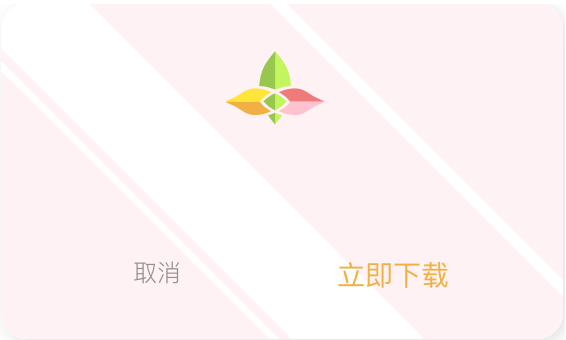
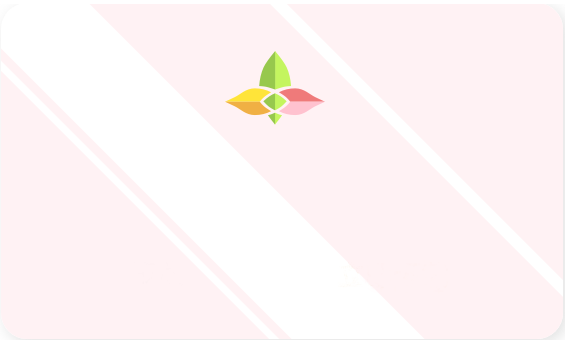
lzq

Changed region(s): [[0.6007, 0.7647, 0.811, 0.8529], [0.2403, 0.7647, 0.3304, 0.8529]]

diff --git a/src/pages/home/home.ts b/src/pages/home/home.ts
@@ -23,6 +23,8 @@ export class HomePage implements OnInit {
 
   @ViewChild('slider') slider: Slides;
   @ViewChild("segments") segments;
+  updateShow:Boolean = false;
+  updateVersion = 0;
   page = {
     pageNum: 0,
     pageString: '0',
@@ -133,26 +135,28 @@ export class HomePage implements OnInit {
     let self = this;
     let appVersion = ServiceConfig.appVersion;
     self.http.get("check_update/", function (data) {
+      self.updateVersion = data.version;
       if (data.version != appVersion) {
-        let alert = self.alertCtrl.create({
-          title: '提示',
-          subTitle: "有新版本请更新",
-          buttons: [
-            {
-              text: '取消',
-              handler: () => {
-                console.log('Disagree clicked');
-              }
-            },
-            {
-              text: '确定',
-              handler: () => {
-                window.open(self.host + data.url, '_system', 'location=yes');
-              }
-            }
-          ]
-        });
-        alert.present();
+        self.updateShow = true;
+        // let alert = self.alertCtrl.create({
+        //   title: '提示',
+        //   subTitle: "有新版本请更新",
+        //   buttons: [
+        //     {
+        //       text: '取消',
+        //       handler: () => {
+        //         console.log('Disagree clicked');
+        //       }
+        //     },
+        //     {
+        //       text: '确定',
+        //       handler: () => {
+        //         window.open(self.host + data.url, '_system', 'location=yes');
+        //       }
+        //     }
+        //   ]
+        // });
+        // alert.present();
       }
     });
   }
@@ -297,5 +301,9 @@ export class HomePage implements OnInit {
       }
       this.segments.nativeElement.scrollLeft = newX;
     }, 1000 / 60); // 60 fps
+  }
+
+  cancelUpdate(){
+    this.updateShow = false;
   }
 }

diff --git a/src/pages/home/home.html b/src/pages/home/home.html
@@ -89,4 +89,12 @@
     <ion-infinite-scroll [enabled]="enabled" threshold="100px" (ionInfinite)="$event.waitFor(doInfinite($event))">
         <ion-infinite-scroll-content></ion-infinite-scroll-content>
     </ion-infinite-scroll> -->
+    <div style="position: fixed;top: 0;left: 0;width: 100%;height: 100%;z-index: 1000;" *ngIf="updateShow"></div>
+    <div style="position: absolute;top: 50%;left: 50%;transform: translate(-50%,-50%);background: #fff;z-index: 10000;width: 283px;height: 170px;    border-top-left-radius: 5px;border-top-right-radius: 5px;" *ngIf="updateShow">
+        <img src="assets/img/update.png" style="width: 283px;height: 170px;">
+        <p style="font-size: 20px;color: #CD6767;margin:0;text-align: center;position: absolute;top: 72px;left: 74px;">升级到最新版本</p>
+        <p style="font-size: 14px;color: #CD6767;text-align: center;margin: 0;position: absolute;top: 100px;left: 83px;">(最新版本{{updateVersion}})</p>
+        <span style="font-size: 18px;color:#A3A1A1; position: absolute;top: 130px;left: 38px;" (click)="cancelUpdate()">取消</span>
+        <span style="font-size: 18px;color:#F1B248;position: absolute;top: 130px;right: 38px;">立即下载</span>
+    </div>
 </ion-content>

diff --git a/src/providers/service.config.ts b/src/providers/service.config.ts
@@ -1,7 +1,7 @@
 export class ServiceConfig {
     private static ISDEBUG = false;
     public static PAGESIZE = 10;
-    public static appVersion = "1.0"
+    public static appVersion = "0.9"
     public static getUrl() {
         if (this.ISDEBUG) {
             //测试环境URL
